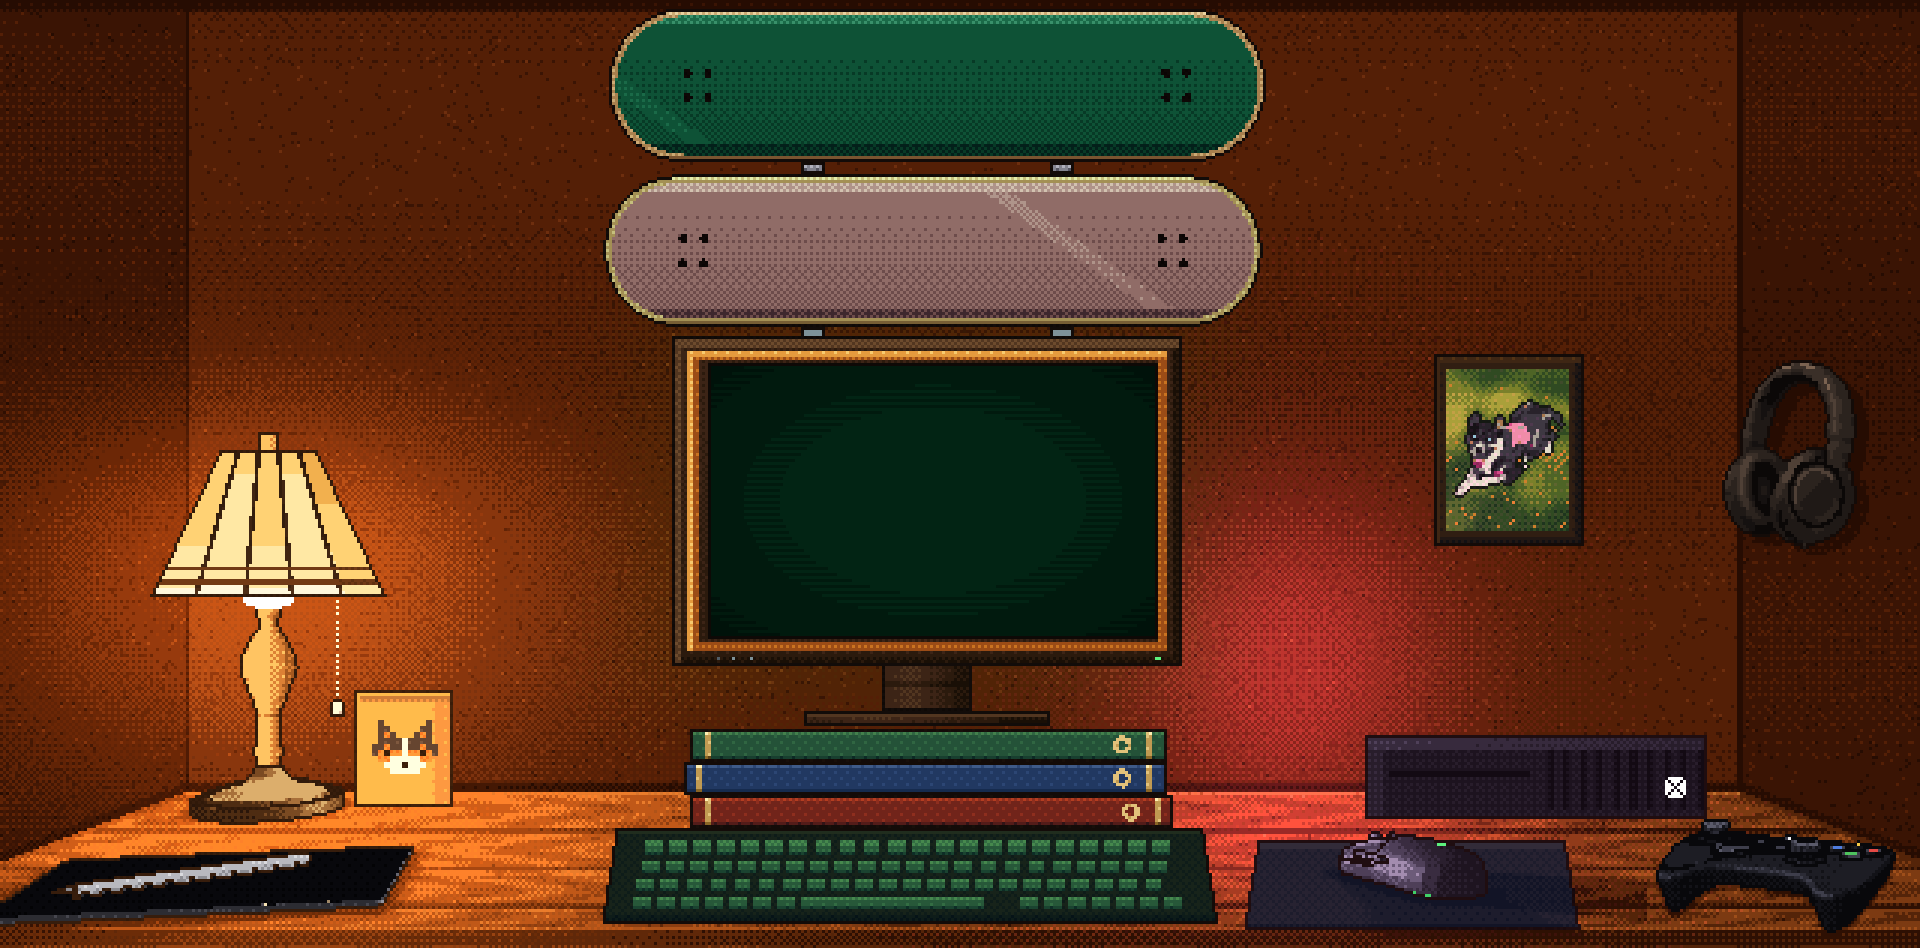
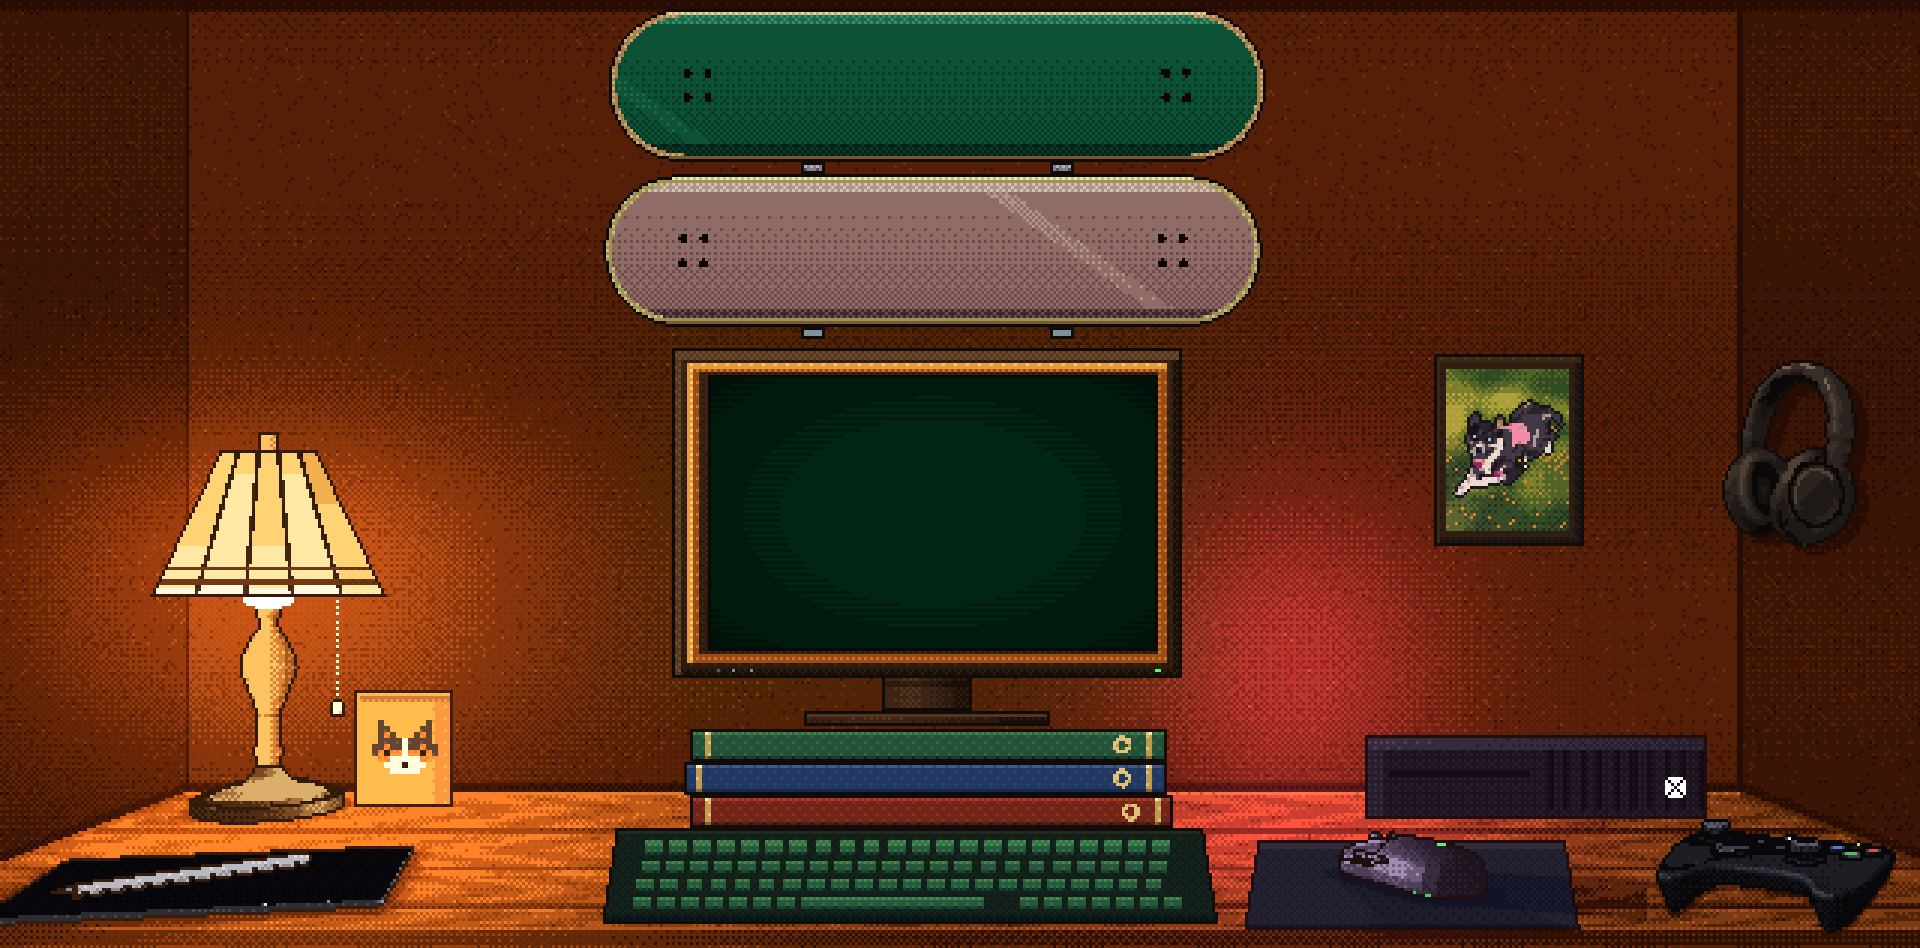
Monitor hangs a little lower, so there's wall between it and the studs under the low deck
Moved down four pixel rows with nothing resized; the live screen and its
hit box follow it through room.json, on desktop and phones alike.

Changed region(s): [[0.3438, 0.673, 0.625, 0.7342], [0.3438, 0.3365, 0.625, 0.3977]]

diff --git a/scripts/desk-room.js b/scripts/desk-room.js
@@ -2,6 +2,10 @@
 // Shapes are laid out in "u" (the portfolio room's 461 x 227 grid) and drawn on a finer 640 x 316 pixel grid.
 // Every pixel stores a material ramp and a shade; a light pass picks the ramp step with a Bayer dither.
 const W = 640, H = 316, K = W / 461, LH = 227;
+/** How far the monitor sits below where it was first drawn (u): whole pixel rows (four, so the dither and the
+ *  glass's scanlines land as before), so it moves without changing size,
+ *  and leaves a strip of wall between it and the studs under the low deck. */
+const MONITOR_DROP = 4 / K;
 const BAYER = [0, 8, 2, 10, 12, 4, 14, 6, 3, 11, 1, 9, 15, 7, 13, 5].map((v) => (v + 0.5) / 16);
 const hex = (h) => [1, 3, 5].map((i) => parseInt(h.slice(i, i + 2), 16));
 const clamp = (v, a, b) => (v < a ? a : v > b ? b : v);
@@ -530,18 +534,21 @@ function drawRoom(theme, on, lavaOn = true, opt = {}) {
   // tall while the monitor keeps its place under the decks)
   shape([192, 170, 253, 175], rect(193, 170.6, 252, 174.6), 'bezel', (x, y) => (y < 171.8 ? 0.85 : y > 173.6 ? 0.18 : cyl(222.5, 29.5, 0.3)(x)));
   shape([210, 158, 235, 172], rect(211.5, 158, 233.5, 171), 'bezel', (x, y) => cyl(222.5, 11, 0.35)(x) + (Math.abs(y - 164) < 0.6 ? -0.25 : 0));
-  shape([161, 81, 284, 160], rect(161, 81, 284, 160), 'bezel', (x, y) => (x < 163.2 || y < 83.2 ? 0.9 : x > 281.8 || y > 157.8 ? 0.14 : 0.5 - (y - 83) * 0.002));
-  shape([165, 84.5, 280.5, 156], (x, y) => rect(165, 84.5, 280.5, 156)(x, y) && !rect(167.5, 86.4, 278, 154)(x, y), 'bezelRim', (x, y) => (x < 166.5 || y < 85.8 ? 0.85 : 0.35), { outline: false });
-  const SX0 = pxX(170), SY0 = px(87), SX1 = pxX(277), SY1 = px(153);
-  for (let Y = SY0; Y <= SY1; Y++) for (let X = SX0; X <= SX1; X++) {
-    const edge = X === SX0 || Y === SY0 || X === SX1 || Y === SY1;
-    const cx = (X - (SX0 + SX1) / 2) / ((SX1 - SX0) / 2), cy = (Y - (SY0 + SY1) / 2) / ((SY1 - SY0) / 2);
-    const v = 0.43 - 0.2 * (cx * cx + cy * cy) - (Y % 2 ? 0.05 : 0);
-    put(X, Y, edge ? 'ink' : 'screen', edge ? 0.3 : clamp(v, 0, 0.43) * 0.75, !edge);
+  {
+    const d = MONITOR_DROP; // the screen and its bezel hang a little lower than first drawn; its stand stays
+    shape([161, 81 + d, 284, 160 + d], rect(161, 81 + d, 284, 160 + d), 'bezel', (x, y) => (x < 163.2 || y < 83.2 + d ? 0.9 : x > 281.8 || y > 157.8 + d ? 0.14 : 0.5 - (y - d - 83) * 0.002));
+    shape([165, 84.5 + d, 280.5, 156 + d], (x, y) => rect(165, 84.5 + d, 280.5, 156 + d)(x, y) && !rect(167.5, 86.4 + d, 278, 154 + d)(x, y), 'bezelRim', (x, y) => (x < 166.5 || y < 85.8 + d ? 0.85 : 0.35), { outline: false });
+    const SX0 = pxX(170), SY0 = px(87) + 4, SX1 = pxX(277), SY1 = px(153) + 4; // MONITOR_DROP's four rows
+    for (let Y = SY0; Y <= SY1; Y++) for (let X = SX0; X <= SX1; X++) {
+      const edge = X === SX0 || Y === SY0 || X === SX1 || Y === SY1;
+      const cx = (X - (SX0 + SX1) / 2) / ((SX1 - SX0) / 2), cy = (Y - (SY0 + SY1) / 2) / ((SY1 - SY0) / 2);
+      const v = 0.43 - 0.2 * (cx * cx + cy * cy) - (Y % 2 ? 0.05 : 0);
+      put(X, Y, edge ? 'ink' : 'screen', edge ? 0.3 : clamp(v, 0, 0.43) * 0.75, !edge);
+    }
+    // what's on the glass is the live screen, laid over it on the page (LUNA_OS, as on the portfolio)
+    for (const x of [172, 176, 180]) put(pxX(x), px(158) + 4, 'silver', 0.4);
+    put(pxX(277), px(158) + 4, 'ledGreen', 0.8, true); put(pxX(277) + 1, px(158) + 4, 'ledGreen', 0.8, true);
   }
-  // what's on the glass is the live screen, laid over it on the page (LUNA_OS, as on the portfolio)
-  for (const x of [172, 176, 180]) put(pxX(x), px(158), 'silver', 0.4);
-  put(pxX(277), px(158), 'ledGreen', 0.8, true); put(pxX(277) + 1, px(158), 'ledGreen', 0.8, true);
   ANC = null;
 
   // ------------------------------------------------ the books
@@ -810,7 +817,7 @@ function drawRoom(theme, on, lavaOn = true, opt = {}) {
       if (onWall(x, y)) { const dy = y - 134; lamp = Math.exp(-((Math.hypot((x - 64.5) / 1.2, dy / (dy < 0 ? 0.7 : 1.05)) / 56) ** 2)); }
       else lamp = Math.exp(-((Math.hypot((x - 68) / 2.5, (y - 199) / 0.75) / 42) ** 2));
     }
-    const dxs = Math.max(170 - x, 0, x - 277), dys = Math.max(87 - y, 0, y - 153);
+    const dxs = Math.max(170 - x, 0, x - 277), dys = Math.max(87 + MONITOR_DROP - y, 0, y - 153 - MONITOR_DROP);
     const onDeck = deckRamps.has(r) && y < 80; // deckWood is the skirting too, far below
     const mon = onDeck && !on ? 0 : Math.exp(-((Math.hypot(dxs, dys * 1.15) / 20) ** 2)) * (on ? 0.4 : 1);
     // the lava lamp: a soft pink pool on the wall round its glass, and one on the desk at its foot
@@ -881,5 +888,5 @@ const THEMES = [
   },
 ];
 
-if (typeof module !== 'undefined') module.exports = { drawRoom, controllerImage, drawControllerHD, THEMES, SHARED, W, H, K };
+if (typeof module !== 'undefined') module.exports = { MONITOR_DROP, drawRoom, controllerImage, drawControllerHD, THEMES, SHARED, W, H, K };
 

diff --git a/scripts/pixel-room.js b/scripts/pixel-room.js
@@ -10,7 +10,7 @@
 const sharp = require('sharp');
 const fs = require('fs');
 const path = require('path');
-const { drawRoom, THEMES, W, H, K } = require('./desk-room.js');
+const { drawRoom, THEMES, W, H, K, MONITOR_DROP: MD } = require('./desk-room.js');
 
 const CIN = path.join(__dirname, '..', 'public', 'cinema');
 const S = 3; // site art px per pixel
@@ -99,7 +99,7 @@ async function cut(withIt, withoutIt, file) {
   const p = (v) => v * S; // pixels to art px
   const pct = ([x0, y0, x1, y1]) => ({ left: +((x0 / AW) * 100).toFixed(3), top: +((y0 / AH) * 100).toFixed(3), width: +(((x1 - x0) / AW) * 100).toFixed(3), height: +(((y1 - y0) / AH) * 100).toFixed(3) });
   const m = JSON.parse(fs.readFileSync(path.join(CIN, 'room.json'), 'utf8'));
-  const GLASS = [u(170.5), u(87.5), u(276.5), u(152.5)];
+  const GLASS = [u(170.5), u(87.5 + MD), u(276.5), u(152.5 + MD)];
 
   // the mug: its cut-out, and the coffee spill's canvas round it (canvas px = art px), set so the mug's body starts 110
   // in and its rim sits 79 down, as the spill was laid out (the body is 106..136 u across, its rim at 155 u, its base
@@ -149,7 +149,7 @@ async function cut(withIt, withoutIt, file) {
     size: { width: AW, height: AH },
     textDx: 0,
     screenPx: GLASS,
-    monitorPct: pct([u(161), u(81), u(284), u(160)]),
+    monitorPct: pct([u(161), u(81 + MD), u(284), u(160 + MD)]),
     decksPct: [pct([u(146), u(2), u(304), u(39)]), pct([u(145), u(42), u(303), u(78.5)])],
     lamp: { off: '/cinema/desk-off.png', hitPct: pct([u(34), u(102), u(95), u(197)]) },
     lavaOff: { on: '/cinema/room-lava-off.png', off: '/cinema/desk-off-lava-off.png' },
